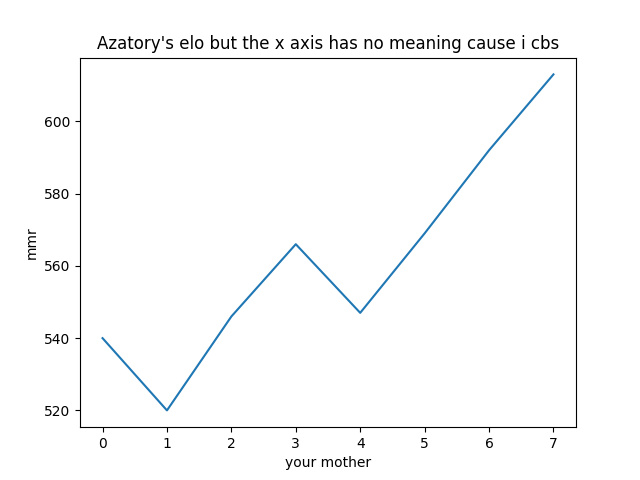
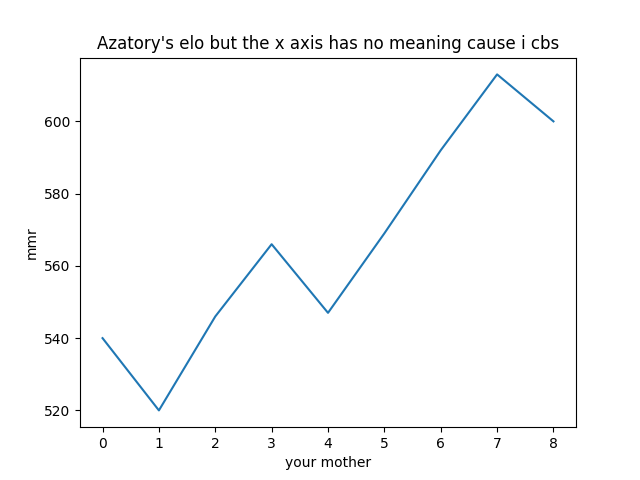
fixed elo history, might still be an issue with how list is sorted in valorant online

diff --git a/valorant_online.py b/valorant_online.py
@@ -75,7 +75,8 @@ def form_partys():
 
     count = 0
     parties = []
-    a_party_id = party_players[0][-1]
+    if party_players != []:
+        a_party_id = party_players[0][-1]
 
     while count < len(party_players):
         temp = []
